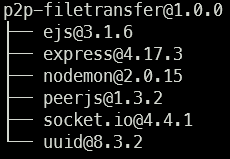
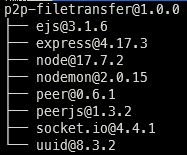
ReadME update: npm list, application operation

diff --git a/README.md b/README.md
@@ -1,4 +1,4 @@
-# Peer-to-Peer Distributed File Downloader
+# Peer-to-Peer File Downloader
 
 ### University of Missouri - Kansas City
 <ul>
@@ -14,7 +14,7 @@
 </ul>
 
 ### Description
-The aim of this project is to create a web application that will connect clients (peers) to a peer-to-peer network for the purpose of transferring files across that network.
+The aim of this project is to create a web application that will connect clients (peers) to a peer-to-peer (P2P) network for the purpose of transferring files across that network.
 The principle technologies that will be used in this implementation (along with their respective APIs) are as follows:
 <ul>
     <li>WebSockets (API: <a href="https://socket.io/">Socket.IO</a>)</li>
@@ -22,12 +22,49 @@ The principle technologies that will be used in this implementation (along with 
 </ul>
 
 ### Instructions
-This implementation is currently under development.  The run the application as a developer, run the following commands in a CLI within the project's root directory.
+The application currently only operates in a local environment but it demonstrates the P2P functionality of the project.
+To run the application locally, execute the following commands in a Command Line Interface within the project's root directory.
+
 <ol>
-    <li>npm install (Installs project dependencies)</li>
-    <li>npm run dev (Runs the server)</li>
-    <li>peerjs --port 3001 (Runs the peer API)</li>
+    <li>npm install            --> Installs project dependencies</li>
+    <li>npm run dev            --> Runs the server on PORT 3000</li>
+    <li>peerjs --port 3001     --> Runs the PeerJS API on PORT 3001</li>
 </ol>
-Note: Either run one command in the background or both in separate CLIs.
-Note: You should have the dependencies shown below installed.  Use command "npm list -l" to verify.
+Note: Either run one command in the background or both in separate CLIs.<br />
+Note: The output shown below is observed when executing the command "npm list -l".
 <img src="./images/dependencies.png" alt="dependencies">
+<br />
+After successfully executing the commands listed above, open a browser window and go to the following address to initiate the application: <a href="http://localhost:3000" target="_blank">http://localhost:3000</a>
+
+### Application Operation
+#### Joining Peers to the Network
+After opening the address <a href="http://localhost:3000" target="_blank">http://localhost:3000</a>, the following user interface will appear.
+<img src="./images/initial_state.png" alt="initial app state">
+<br />
+Additional peers can join the network by copy & pasting the address with the matching network ID which is located after the "localhost:3000/" segment.  In the example below, the network ID is "28529ade-bd42-4e69-8a87-3e8ef5f0b0c7".
+<img src="./images/browser_address.png" alt="browser address">
+<br />
+When a second browser window's address is the same as the first, the peer will be added to the network.  This addition will be reflected in the "P2P Network Information" section. 
+<br />
+Note that the peer's own address is highlighted in green.
+<img src="./images/peer_joined.png" alt="peer joined network">
+<br />
+This action may be repeated multiple times to add the desired number of peers to the network.
+
+#### Uploading a File
+The follow steps are done to upload a file from a peer's interface:
+<ol>
+    <li>Click the "Choose File" button and select a file to upload</li>
+    <li>Click the "Upload" button on the peer interface</li>
+</ol>
+The uploaded file will appear in the "Network File Information" section.  The peer that uploaded the file will have it highlighted green with the option to remove it from the network (as shown on the left in the demonstration).<br />
+The uploaded file will appear without any highlights on the interfaces for all other peers on the network with the option to download the file if they choose.<br />
+<img src="./images/upload.gif" alt="upload demonstration">
+<br />
+
+#### Downloading a File
+For a peer to download a file from another peer, simply click on the "Download" button next to the file name in the "Network File Information" section.  The download will begin automatically and be saved on the peer's local disk.<br />
+The "Status" section will summarize the action performed, specifically which file was downloaded and from what peer.
+<img src="./images/download.gif" alt="download demosntration">
+<br />
+
